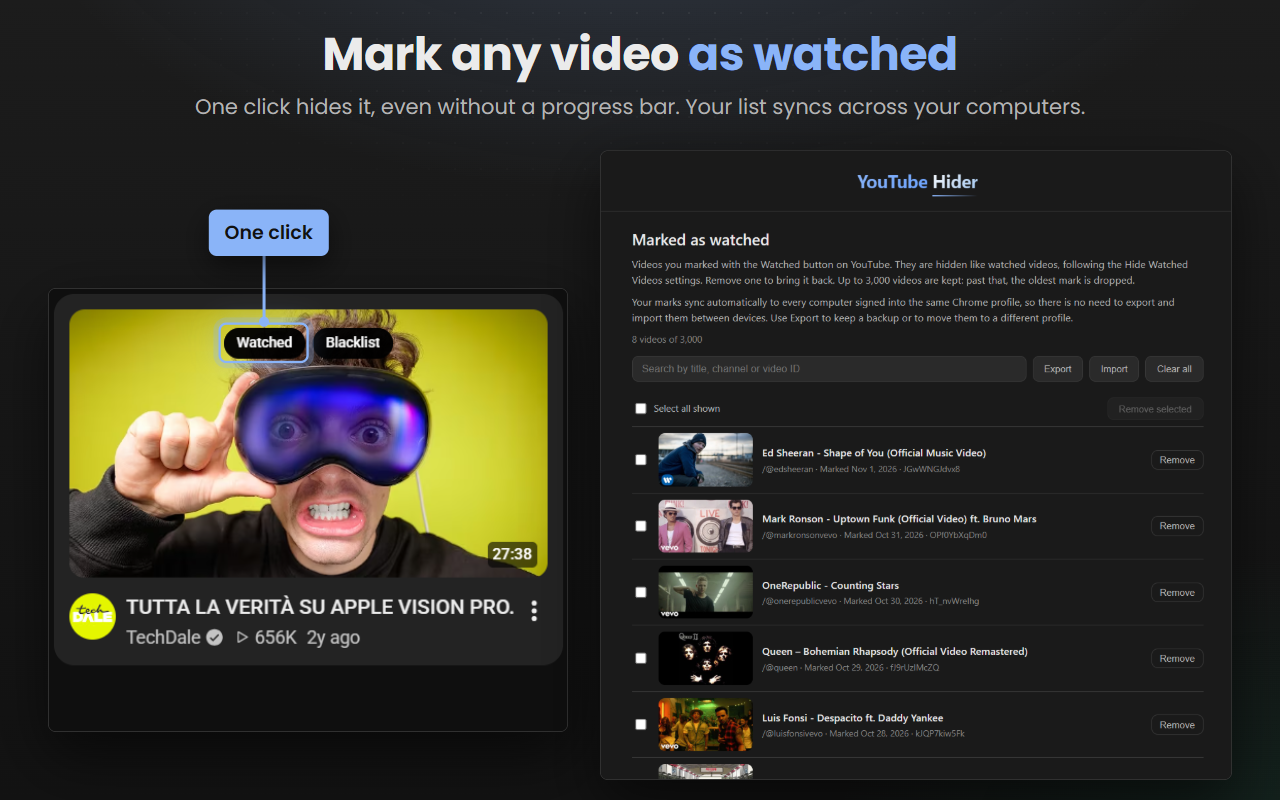
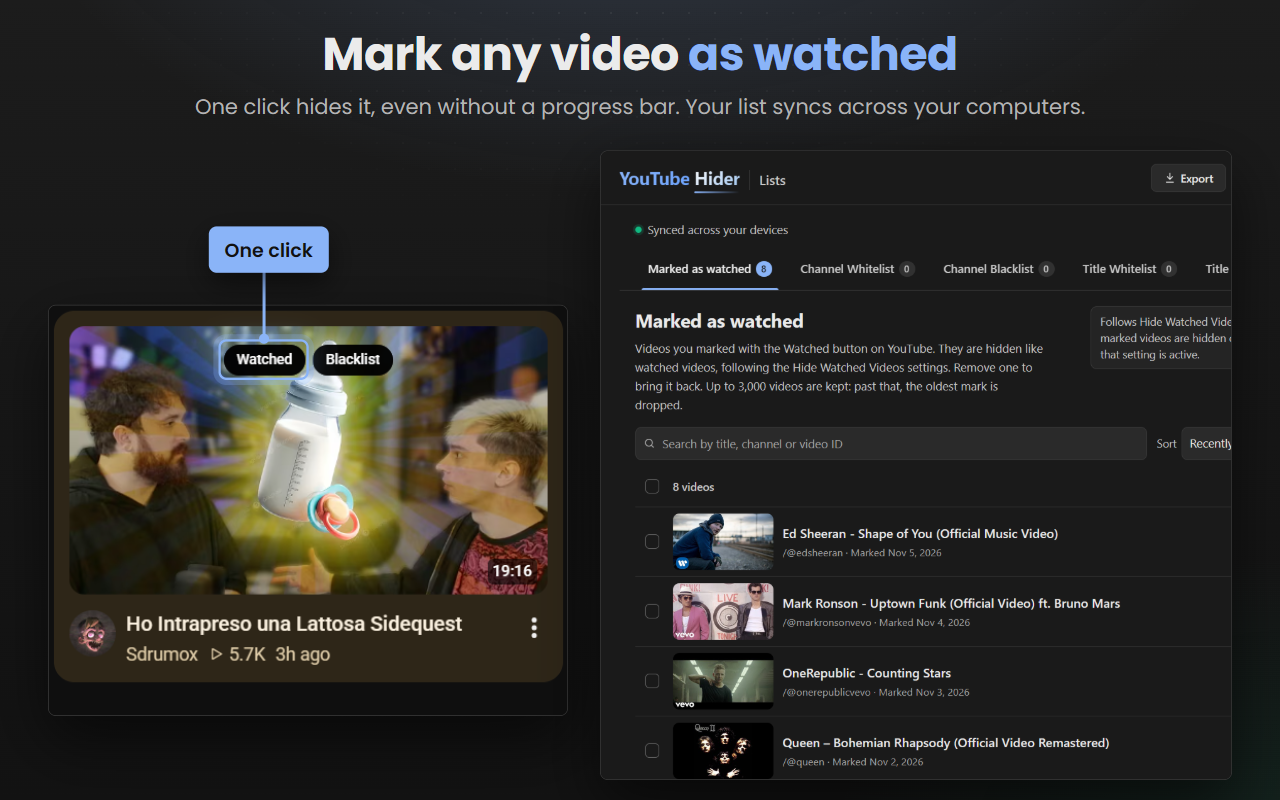
fix: keep slide 4 callouts inside the image and fit every tab
The callouts were measured before Poppins had loaded, so their width
came from the narrower fallback font and the clamp to the slide edge
was off: "Paste many, see what changes first" ran out of the image.
The slide now waits for the font before measuring, and the ring wraps
only the preview chips so the callout has room beside them.

The Title Blacklist tab lost its count because the five tabs did not
fit the 880px page, which affected the real page too. The Manage page
is now 1040px wide with slightly tighter tab padding. The slide also
hides the page scrollbar, gives the Marked as watched tab a count, and
crops the inline buttons inset below the video title.

diff --git a/tools/generate-store-screenshots.js b/tools/generate-store-screenshots.js
@@ -660,7 +660,7 @@ function layoutCallouts(callouts) {
   const slide = document.querySelector('.slide');
   const svg = document.querySelector('.links');
   const ns = 'http://www.w3.org/2000/svg';
-  document.fonts.ready.then(() => {
+  Promise.all([document.fonts.load('600 19px Poppins'), document.fonts.ready]).then(() => {
     callouts.forEach(item => {
       const chip = document.createElement('div');
       chip.className = 'callout';
@@ -1129,6 +1129,15 @@ async function captureBeforeAfterSlide(page, serviceWorker) {
 }
 
 const MANAGE_LIST_ID = 'channel-whitelist';
+const MARKED_COUNT_SAMPLE_SIZE = 37;
+
+function buildMarkedCountSample() {
+  const now = Math.floor(Date.now() / 1000);
+  return Array.from({ length: MARKED_COUNT_SAMPLE_SIZE }, (_, i) => [
+    'sampleVid' + String(i).padStart(2, '0'),
+    now - (MARKED_COUNT_SAMPLE_SIZE - i) * 3600,
+  ]);
+}
 const INSET_MARGIN = 24;
 
 async function captureInlineButtons(page, homeCards) {
@@ -1153,15 +1162,19 @@ async function captureInlineButtons(page, homeCards) {
 
   return withDeviceScale(page, 2, async () => {
     const rects = await Promise.all(
-      ['ytd-watch-metadata #owner', '#yt-hider-inline-whitelist-btn', '#yt-hider-inline-blacklist-btn'].map(selector =>
-        getElementRect(page, selector)
-      )
+      [
+        'ytd-watch-metadata #owner',
+        '#yt-hider-inline-whitelist-btn',
+        '#yt-hider-inline-blacklist-btn',
+        'ytd-watch-metadata #title',
+      ].map(selector => getElementRect(page, selector))
     );
-    const [owner, whitelist, blacklist] = rects;
+    const [owner, whitelist, blacklist, title] = rects;
     if (!whitelist || !blacklist) throw new Error('The inline Whitelist and Blacklist buttons are not visible');
     const parts = [owner, whitelist, blacklist].filter(Boolean);
     const left = Math.min(...parts.map(rect => rect.x)) - 14;
-    const top = Math.min(...parts.map(rect => rect.y)) - 12;
+    const titleBottom = title ? title.y + title.height + 2 : -Infinity;
+    const top = Math.max(Math.min(...parts.map(rect => rect.y)) - 12, titleBottom);
     const right = Math.max(...parts.map(rect => rect.x + rect.width)) + 14;
     const bottom = Math.max(...parts.map(rect => rect.y + rect.height)) + 12;
     const capture = await captureRegion(page, {
@@ -1178,13 +1191,14 @@ async function captureManagePage(context, serviceWorker, extensionId) {
   await applySettings(
     serviceWorker,
     { channelWhitelistEnabled: true, channelBlacklistEnabled: true, titleWhitelistEnabled: true, titleBlacklistEnabled: true },
-    buildListsSample()
+    { ...buildListsSample(), markedWatched: buildMarkedCountSample() }
   );
   const managerPage = await context.newPage();
   try {
     await managerPage.setViewportSize({ width: STAGE.width, height: STAGE.height });
     await managerPage.goto(`chrome-extension://${extensionId}/popup/manage.html#${MANAGE_LIST_ID}`);
     await managerPage.waitForSelector(`#panel-${MANAGE_LIST_ID} .item-row`);
+    await managerPage.addStyleTag({ content: 'html { scrollbar-width: none; } ::-webkit-scrollbar { display: none; }' });
     await managerPage.fill(`#add-input-${MANAGE_LIST_ID}`, LIST_SAMPLE_PASTE);
     await managerPage.waitForSelector(`#panel-${MANAGE_LIST_ID} .add-preview li`);
     await managerPage.evaluate(() => {
@@ -1192,7 +1206,16 @@ async function captureManagePage(context, serviceWorker, extensionId) {
       window.scrollTo(0, document.querySelector('.manage-tabs-bar').offsetTop);
     });
     await managerPage.waitForTimeout(500);
-    const preview = await getElementRect(managerPage, `#panel-${MANAGE_LIST_ID} .add-preview`);
+    const preview = await managerPage.evaluate(selector => {
+      const chips = [...document.querySelectorAll(selector)].map(chip => chip.getBoundingClientRect());
+      if (!chips.length) return null;
+      const left = Math.min(...chips.map(rect => rect.left));
+      const top = Math.min(...chips.map(rect => rect.top));
+      const right = Math.max(...chips.map(rect => rect.right));
+      const bottom = Math.max(...chips.map(rect => rect.bottom));
+      return { x: left, y: top, width: right - left, height: bottom - top };
+    }, `#panel-${MANAGE_LIST_ID} .add-preview li`);
+    if (!preview) throw new Error('The add box preview did not render');
     const capture = await captureRegion(managerPage, { x: 0, y: 0, width: STAGE.width, height: STAGE.height });
     return { capture, preview };
   } finally {
@@ -1226,7 +1249,7 @@ async function captureChannelsSlide(context, page, serviceWorker, extensionId, h
   };
   const rings = [padRect(managed.map(manage.preview), 6), padRect(inset.map(buttons), 5)];
   const callouts = [
-    callout('Paste many, see what changes first', rings[0], 330, 0),
+    callout('Paste many, see what changes first', rings[0], 300, 0),
     callout('Or add them from YouTube', rings[1], 0, -80),
   ];
   return {

diff --git a/popup/manage.css b/popup/manage.css
@@ -2,7 +2,7 @@ body.manage-page {
     width: auto;
     max-width: none;
     min-height: 100vh;
-    --manage-max-width: 880px;
+    --manage-max-width: 1040px;
     --manage-gutter: var(--spacing-2xl);
     --tabs-bar-height: 54px;
     --tone-blue: #8ab4f8;
@@ -369,7 +369,7 @@ body.manage-page {
     align-items: center;
     gap: var(--spacing-sm);
     height: 100%;
-    padding: 0 var(--spacing-xl);
+    padding: 0 var(--spacing-lg);
     font: inherit;
     font-size: 0.9375rem;
     font-weight: 500;
